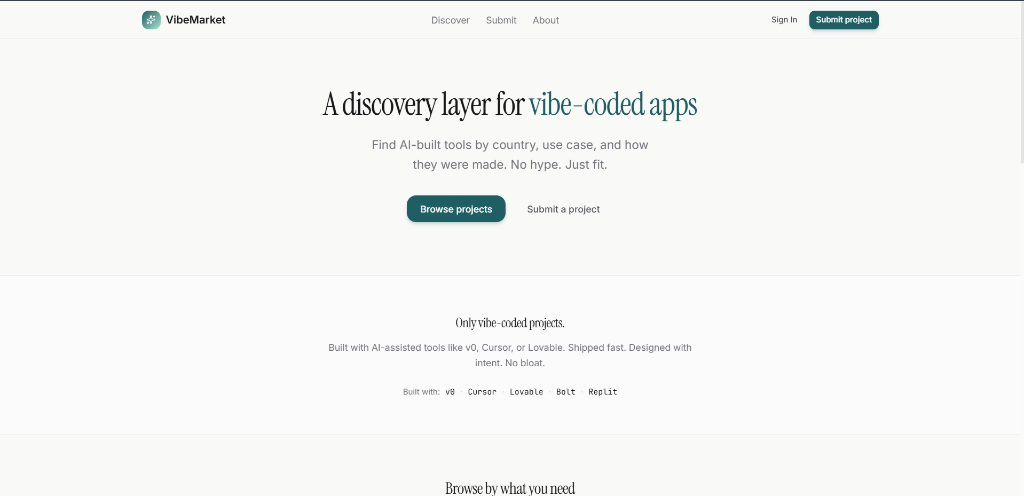
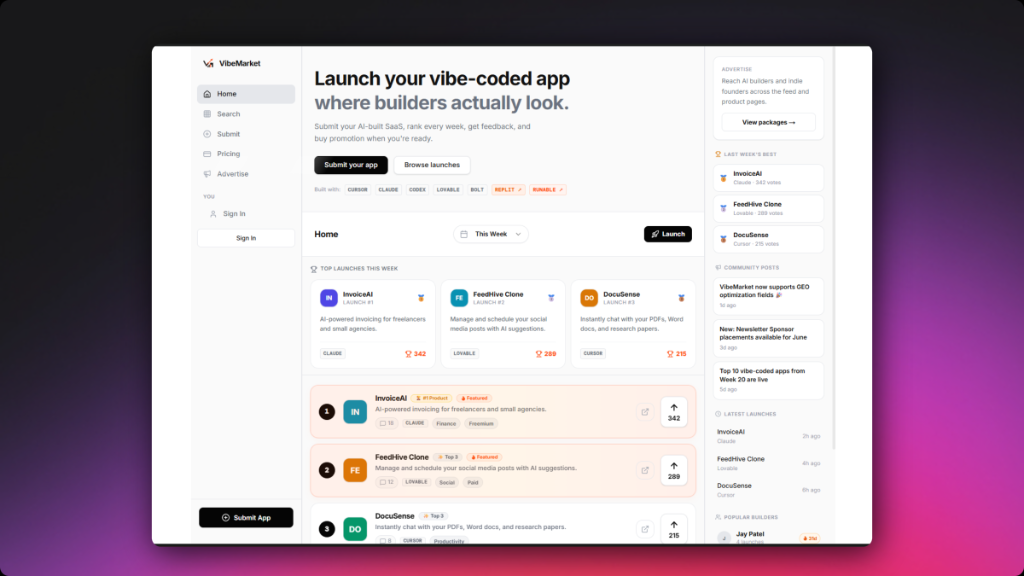
last played

diff --git a/src/app/api/now-playing/route.ts b/src/app/api/now-playing/route.ts
@@ -1,4 +1,4 @@
-import { NextResponse } from 'next/server';
+import { NextRequest, NextResponse } from 'next/server';
 
 const client_id = process.env.SPOTIFY_CLIENT_ID;
 const client_secret = process.env.SPOTIFY_CLIENT_SECRET;
@@ -8,6 +8,14 @@ const basic = Buffer.from(`${client_id}:${client_secret}`).toString('base64');
 const NOW_PLAYING_ENDPOINT = `https://api.spotify.com/v1/me/player/currently-playing`;
 const RECENTLY_PLAYED_ENDPOINT = `https://api.spotify.com/v1/me/player/recently-played?limit=1`;
 const TOKEN_ENDPOINT = `https://accounts.spotify.com/api/token`;
+
+// Standard fallback song when recently played is not available or fails
+const FALLBACK_RECENTLY_PLAYED = {
+    isPlaying: false,
+    title: "Everybody Wants to Rule the World",
+    artist: "Tears for Fears",
+    songUrl: "https://open.spotify.com/track/4RvWPyQ5RL0ao9LP8vnm4m"
+};
 
 async function getAccessToken() {
     const response = await fetch(TOKEN_ENDPOINT, {
@@ -36,14 +44,15 @@ async function getRecentlyPlayed(access_token: string) {
         });
 
         if (response.status === 204 || response.status > 400) {
-            return NextResponse.json({ isPlaying: false });
+            console.warn(`Spotify recently-played returned status ${response.status}. Using fallback track.`);
+            return NextResponse.json(FALLBACK_RECENTLY_PLAYED);
         }
 
         const data = await response.json();
         const track = data?.items?.[0]?.track;
 
         if (!track) {
-            return NextResponse.json({ isPlaying: false });
+            return NextResponse.json(FALLBACK_RECENTLY_PLAYED);
         }
 
         const title = track.name;
@@ -58,11 +67,28 @@ async function getRecentlyPlayed(access_token: string) {
         });
     } catch (err) {
         console.error('Error fetching recently played track:', err);
-        return NextResponse.json({ isPlaying: false });
+        return NextResponse.json(FALLBACK_RECENTLY_PLAYED);
     }
 }
 
-export async function GET() {
+export async function GET(request: NextRequest) {
+    const { searchParams } = new URL(request.url);
+    const mock = searchParams.get('mock');
+
+    // Support mock parameter testing for UI developers
+    if (mock === 'now-playing') {
+        return NextResponse.json({
+            isPlaying: true,
+            title: "Faramosh",
+            artist: "Madboy Mink, Saba Azad",
+            songUrl: "https://open.spotify.com/track/4Pz7jTGLb5wOaQz8U315jZ",
+        });
+    } else if (mock === 'last-played') {
+        return NextResponse.json(FALLBACK_RECENTLY_PLAYED);
+    } else if (mock === 'offline') {
+        return NextResponse.json({ isPlaying: false });
+    }
+
     // If credentials are not present, return a fallback mock playing status matching user request
     if (!client_id || !client_secret || !refresh_token) {
         return NextResponse.json({
@@ -106,13 +132,9 @@ export async function GET() {
         });
     } catch (error) {
         console.error('Error fetching Spotify now playing:', error);
-        // Fallback to mock data matching user screenshot
-        return NextResponse.json({
-            isPlaying: true,
-            title: "Faramosh",
-            artist: "Madboy Mink, Saba Azad",
-            songUrl: "https://open.spotify.com/track/4Pz7jTGLb5wOaQz8U315jZ",
-        });
+        // Fallback to mock data matching user screenshot on error
+        return NextResponse.json(FALLBACK_RECENTLY_PLAYED);
     }
 }
+
 

diff --git a/src/data/projects.ts b/src/data/projects.ts
@@ -31,13 +31,13 @@ export const projects: Project[] = [
     featured: true
   },
   {
-    slug: "sumit-builds",
-    name: "Sumit Builds",
-    category: "Open Source & Side Projects",
-    description: "A collection of developer tools, templates, and experimentations.",
-    image: "/sumit-builds.png",
-    metrics: "Active side projects",
-    liveUrl: "https://sumitsharmaa.me",
+    slug: "vibe-market",
+    name: "Vibe Market",
+    category: "Vibe-Coded App Directory",
+    description: "A discovery layer and launching platform for vibe-coded apps.",
+    image: "/vibe-market-landing.png",
+    metrics: "Curated Marketplace",
+    liveUrl: "https://vibemarket.tech",
     featured: true
   },
   {
@@ -78,16 +78,6 @@ export const projects: Project[] = [
     image: "/admin-dashboard-kyc.png",
     metrics: "Enterprise Admin Console",
     liveUrl: "https://nova-seven-sepia.vercel.app/dashboard",
-    featured: false
-  },
-  {
-    slug: "vibe-market",
-    name: "Vibe Market",
-    category: "E-Commerce",
-    description: "A discovery layer for vibe-coded apps.",
-    image: "/vibe-market-landing.png",
-    metrics: "Live · Curated marketplace",
-    liveUrl: "https://vibemarket.tech",
     featured: false
   },
   {

diff --git a/src/components/layout/MinimalLayout.tsx b/src/components/layout/MinimalLayout.tsx
@@ -28,7 +28,7 @@ const MinimalLayout = ({ children }: { children: React.ReactNode }) => {
     ];
 
     return (
-        <div className="min-h-screen bg-[#fafafa] dark:bg-[#050505] text-zinc-900 dark:text-zinc-100 font-sans selection:bg-black/10 selection:text-black dark:selection:bg-white/10 dark:selection:text-white relative transition-colors duration-300">
+        <div className="min-h-screen bg-[#fafafa] dark:bg-[#050505] text-zinc-900 dark:text-zinc-100 font-sans selection:bg-black/10 selection:text-black dark:selection:bg-white/10 dark:selection:text-white relative transition-colors duration-300 overflow-x-hidden">
             {/* Decorative Background */}
             <GridBackground />
 
@@ -41,9 +41,8 @@ const MinimalLayout = ({ children }: { children: React.ReactNode }) => {
                     <div className="absolute -left-1.5 -bottom-1.5 text-black/20 dark:text-white/20 text-[10px]">+</div>
                     <div className="absolute -right-1.5 -bottom-1.5 text-black/20 dark:text-white/20 text-[10px]">+</div>
 
-                    <div className="px-6 h-16 flex items-center justify-between">
-                        {/* Left: Navigation Links */}
-                        <div className="flex items-center gap-6 sm:gap-10">
+                    <div className="px-3 sm:px-6 h-16 flex items-center justify-between">
+                        <div className="flex items-center gap-2.5 sm:gap-6 md:gap-10">
                             {navLinks.map((link) => {
                                 const isActive = link.path === '/' ? pathname === '/' : pathname.startsWith(link.path);
                                 if (link.external) {
@@ -53,7 +52,7 @@ const MinimalLayout = ({ children }: { children: React.ReactNode }) => {
                                             href={link.path}
                                             target="_blank"
                                             rel="noreferrer"
-                                            className="text-xs sm:text-sm font-medium transition-colors text-gray-500 hover:text-black dark:text-zinc-400 dark:hover:text-white"
+                                            className="inline-block relative text-[11px] sm:text-sm font-medium transition-colors text-gray-500 hover:text-black dark:text-zinc-400 dark:hover:text-white"
                                         >
                                             {link.name}
                                         </a>
@@ -63,7 +62,7 @@ const MinimalLayout = ({ children }: { children: React.ReactNode }) => {
                                     <Link
                                         key={link.name}
                                         href={link.path}
-                                        className={`text-xs sm:text-sm font-medium transition-colors relative ${isActive ? 'text-zinc-900 dark:text-white' : 'text-gray-500 hover:text-black dark:text-gray-400 dark:hover:text-white'}`}
+                                        className={`inline-block relative text-[11px] sm:text-sm font-medium transition-colors ${isActive ? 'text-zinc-900 dark:text-white' : 'text-gray-500 hover:text-black dark:text-gray-400 dark:hover:text-white'}`}
                                     >
                                         {link.name}
                                         {isActive && (
@@ -81,19 +80,19 @@ const MinimalLayout = ({ children }: { children: React.ReactNode }) => {
                         </div>
 
                         {/* Right: Actions */}
-                        <div className="flex items-center gap-2 sm:gap-3">
+                        <div className="flex items-center gap-1 sm:gap-3">
                             {mounted && (
                                 <button
                                     onClick={() => setTheme(theme === 'dark' ? 'light' : 'dark')}
-                                    className="p-1.5 text-zinc-500 hover:text-zinc-900 dark:text-zinc-400 dark:hover:text-white rounded-full hover:bg-black/5 dark:hover:bg-white/5 transition-colors cursor-pointer"
+                                    className="p-1 text-zinc-500 hover:text-zinc-900 dark:text-zinc-400 dark:hover:text-white rounded-full hover:bg-black/5 dark:hover:bg-white/5 transition-colors cursor-pointer"
                                     aria-label="Toggle Theme"
                                 >
-                                    {theme === 'dark' ? <Sun className="w-[18px] h-[18px]" /> : <Moon className="w-[18px] h-[18px]" />}
+                                    {theme === 'dark' ? <Sun className="w-4 h-4 sm:w-[18px] sm:h-[18px]" /> : <Moon className="w-4 h-4 sm:w-[18px] sm:h-[18px]" />}
                                 </button>
                             )}
                             <button
                                 onClick={() => setIsLetsTalkOpen(true)}
-                                className="px-3 sm:px-4 py-1.5 rounded-full bg-transparent border border-zinc-300 dark:border-zinc-700 hover:border-brandAccent hover:text-brandAccent active:bg-brandAccent active:text-white active:border-brandAccent text-zinc-800 dark:text-zinc-200 text-[10px] sm:text-xs font-semibold transition-all duration-200 shadow-sm"
+                                className="px-2.5 sm:px-4 py-1.5 rounded-full bg-transparent border border-zinc-300 dark:border-zinc-700 hover:border-brandAccent hover:text-brandAccent active:bg-brandAccent active:text-white active:border-brandAccent text-zinc-800 dark:text-zinc-200 text-[10px] sm:text-xs font-semibold transition-all duration-200 shadow-sm whitespace-nowrap"
                             >
                                 Let&apos;s Talk
                             </button>

diff --git a/scripts/get-spotify-token.js b/scripts/get-spotify-token.js
@@ -13,7 +13,7 @@ console.log('======================================\n');
 console.log('1. Go to: https://developer.spotify.com/dashboard/');
 console.log('2. Log in and open your App (create one if you haven\'t).');
 console.log('3. Click "Edit Settings" or go to Settings.');
-console.log('4. Add exactly "http://localhost:3000/api/callback" to your Redirect URIs and save.');
+console.log('4. Add exactly "http://localhost:3001/api/callback" to your Redirect URIs and save.');
 console.log('5. Copy your Client ID and Client Secret.\n');
 
 const args = process.argv.slice(2);